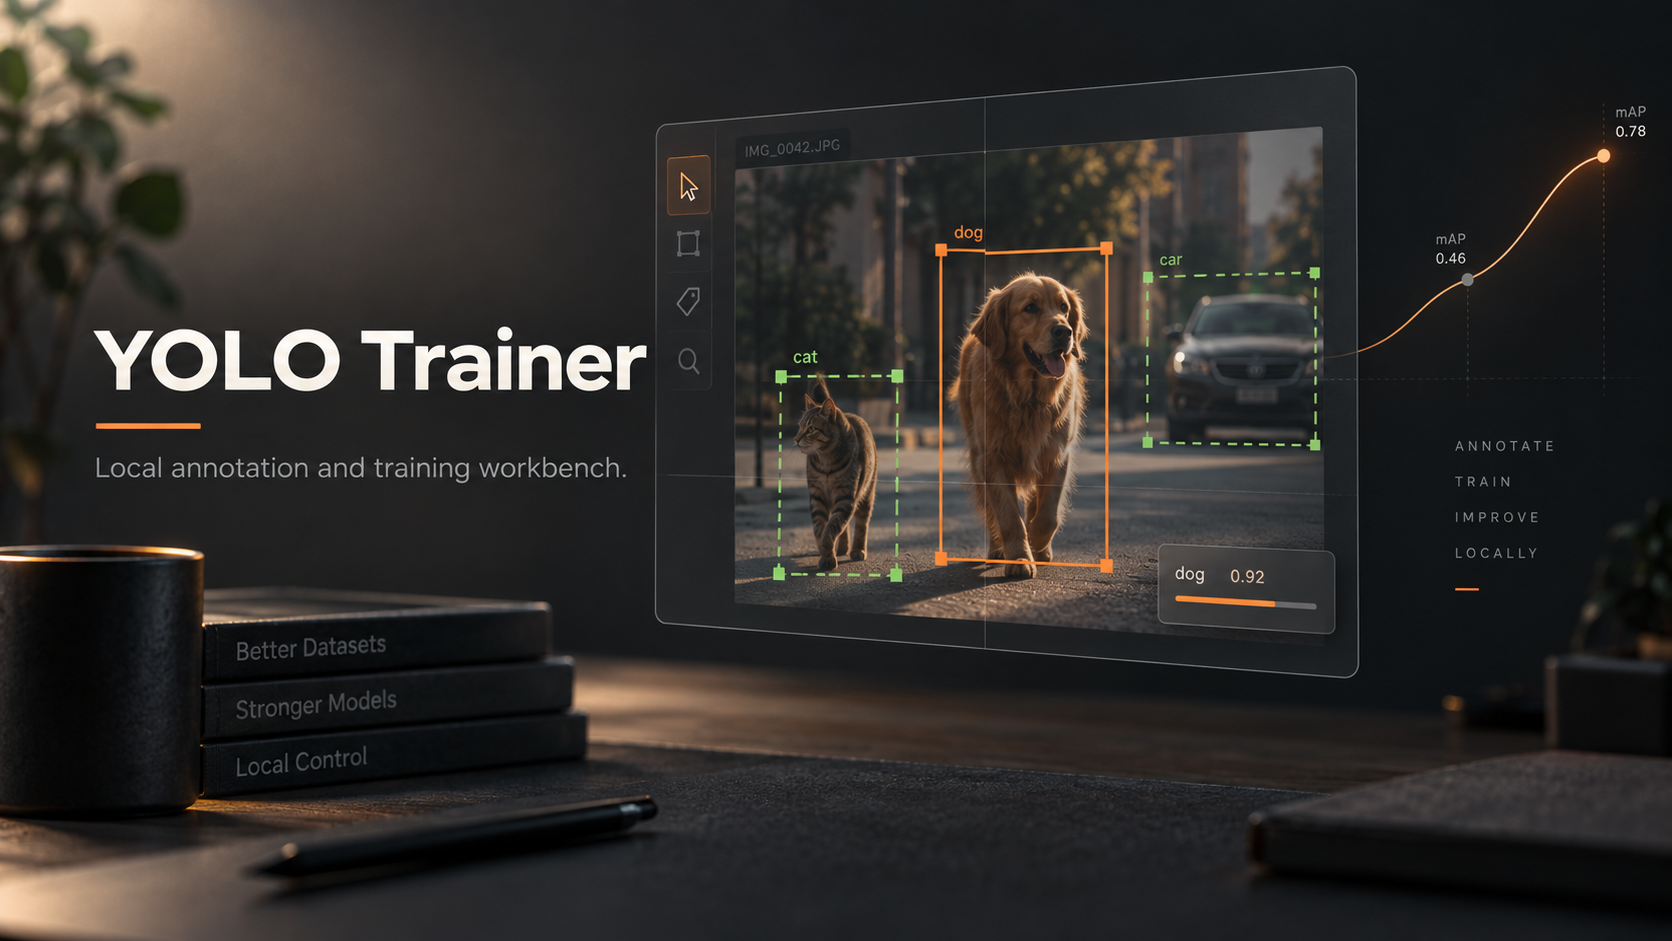
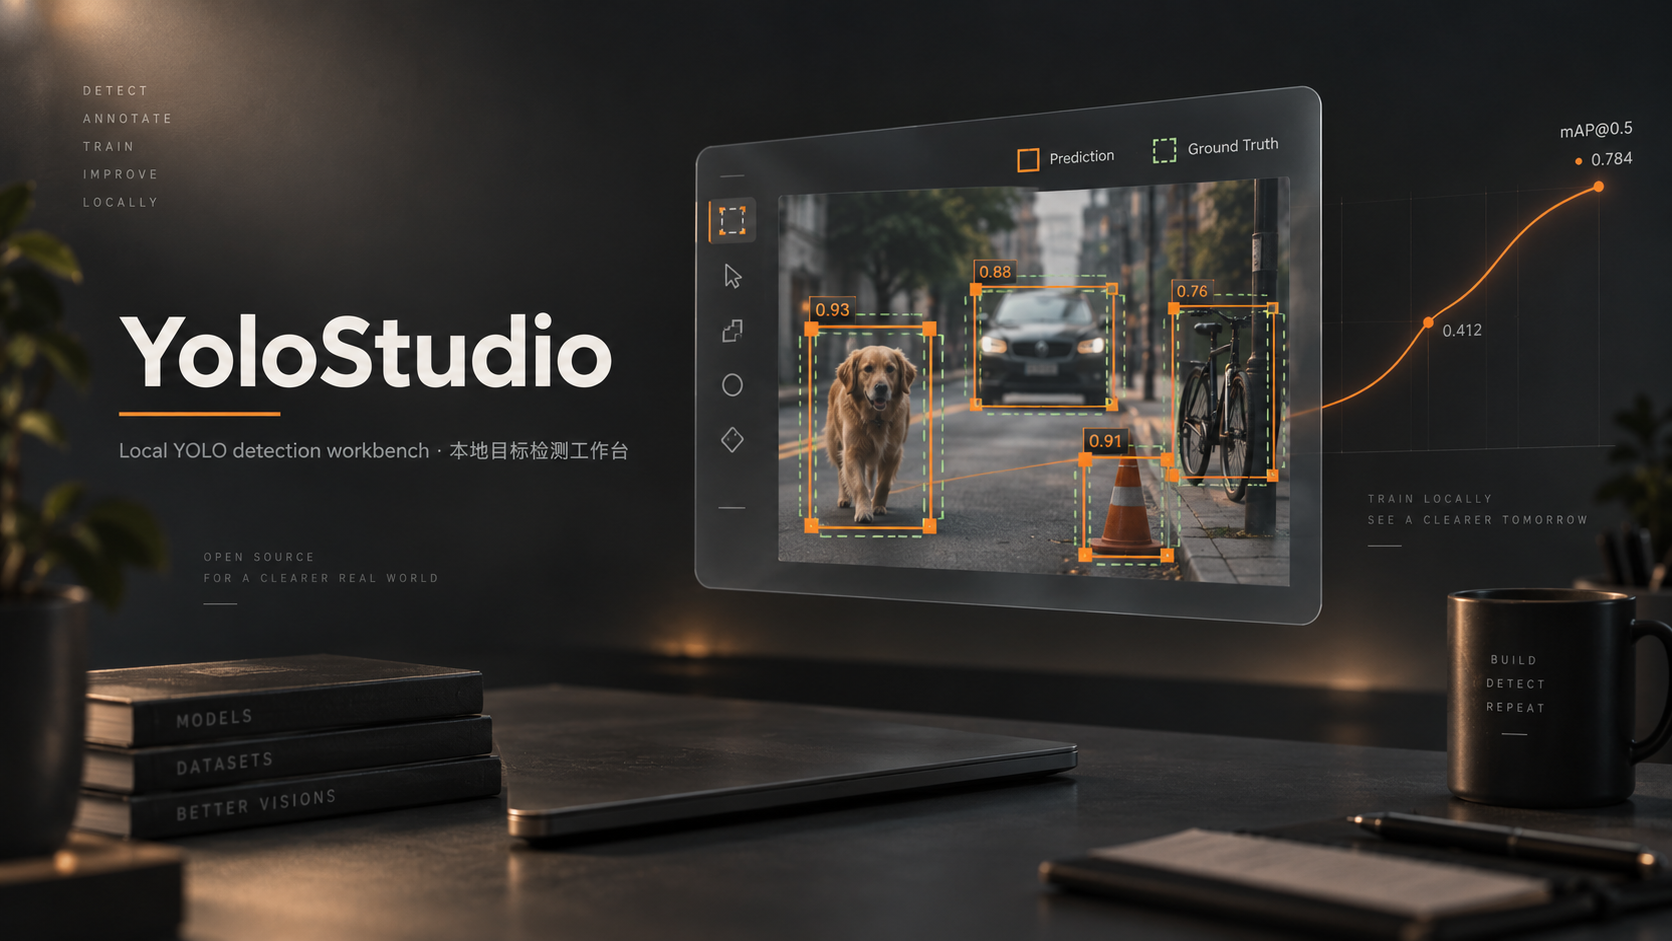
chore: rebrand the product as YoloStudio
Rename the public project identity and packaging to a cleaner studio mark, and refresh the README banner and bilingual framing.

diff --git a/frontend/src/App.test.tsx b/frontend/src/App.test.tsx
@@ -998,7 +998,7 @@ const apiMock = vi.hoisted(() => {
 vi.mock("./api", () => ({
   getHealth: async () => ({
     status: "ok",
-    app: "YOLO Trainer",
+    app: "YoloStudio",
     workspace_root: "/tmp/workspace",
     database_path: "/tmp/workspace/app.db",
     devices: { selected: "cpu", available: ["cpu"], details: {} },
@@ -1314,7 +1314,7 @@ describe("App", () => {
     const user = userEvent.setup();
     render(<App />);
 
-    expect(await screen.findByText("YOLO Trainer")).toBeInTheDocument();
+    expect(await screen.findByText("YoloStudio")).toBeInTheDocument();
     expect(await screen.findByText("cpu")).toBeInTheDocument();
     expect(screen.getByTitle("/tmp/workspace")).toHaveTextContent("/tmp/workspace");
     expect(screen.getByTitle("/tmp/workspace/app.db")).toHaveTextContent(
@@ -1733,7 +1733,7 @@ describe("App", () => {
     const user = userEvent.setup();
     render(<App />);
 
-    expect(await screen.findByText("YOLO Trainer")).toBeInTheDocument();
+    expect(await screen.findByText("YoloStudio")).toBeInTheDocument();
     await navigateToStep(user, "图像标注");
     expect(screen.getByText("请先导入或加载数据集")).toBeInTheDocument();
     expect(screen.getByLabelText("数据集来源")).toBeInTheDocument();

diff --git a/frontend/src/App.tsx b/frontend/src/App.tsx
@@ -151,7 +151,7 @@ function resolveDefaultDatasetPath(): string {
   if (typeof window !== "undefined") {
     const host = window.location.hostname;
     if (host && host !== "localhost" && host !== "127.0.0.1") {
-      return "/opt/YOLO_Trainer/image_dataset.zip";
+      return "/opt/YoloStudio/image_dataset.zip";
     }
   }
   return "/tmp/image_dataset.zip";
@@ -2813,7 +2813,7 @@ export default function App() {
       <section className="topbar" aria-label="应用状态">
         <div>
           <p className="eyebrow">本地目标检测工作台</p>
-          <h1>YOLO Trainer</h1>
+          <h1>YoloStudio</h1>
         </div>
         <div className="topbar-actions">
           <div className="device-pill">

diff --git a/frontend/src/LoginView.tsx b/frontend/src/LoginView.tsx
@@ -27,7 +27,7 @@ export function LoginView() {
       <section className="login-card" aria-label="用户登录">
         <div className="panel-heading">
           <div>
-            <p className="eyebrow">YOLO Trainer</p>
+            <p className="eyebrow">YoloStudio</p>
             <h1>登录工作台</h1>
             <p className="muted">使用管理员或标注员账号进入系统</p>
           </div>

diff --git a/frontend/src/api.ts b/frontend/src/api.ts
@@ -1008,7 +1008,7 @@ export function deleteDatasetSource(sourceId: number): Promise<void> {
 
 export function importDataset(
   sourcePath: string,
-  projectName = "YOLO Trainer Project",
+  projectName = "YoloStudio Project",
   datasetName = "image_dataset",
 ): Promise<DatasetImportResponse> {
   return requestJson<DatasetImportResponse>("/api/datasets/import", {

diff --git a/frontend/index.html b/frontend/index.html
@@ -3,7 +3,7 @@
   <head>
     <meta charset="UTF-8" />
     <meta name="viewport" content="width=device-width, initial-scale=1.0" />
-    <title>YOLO Trainer</title>
+    <title>YoloStudio</title>
   </head>
   <body>
     <div id="root"></div>

diff --git a/frontend/src/auth.tsx b/frontend/src/auth.tsx
@@ -15,7 +15,7 @@ import {
   type UserRole,
 } from "./api";
 
-const TOKEN_KEY = "yolo_trainer_access_token";
+const TOKEN_KEY = "yolostudio_access_token";
 
 type AuthContextValue = {
   user: AuthUser | null;

diff --git a/backend/app/core/settings.py b/backend/app/core/settings.py
@@ -9,10 +9,10 @@ REPO_ROOT = Path(__file__).resolve().parents[3]
 
 
 class Settings(BaseSettings):
-    model_config = SettingsConfigDict(env_prefix="YOLO_TRAINER_", arbitrary_types_allowed=True)
+    model_config = SettingsConfigDict(env_prefix="YOLOSTUDIO_", arbitrary_types_allowed=True)
 
     workspace_root: Path = Field(default=REPO_ROOT / "workspace")
-    jwt_secret: str = Field(default="yolo-trainer-dev-secret-change-me")
+    jwt_secret: str = Field(default="yolostudio-dev-secret-change-me")
     jwt_algorithm: str = Field(default="HS256")
     access_token_expire_minutes: int = Field(default=60 * 24 * 7)
     default_admin_username: str = Field(default="admin")

diff --git a/backend/app/main.py b/backend/app/main.py
@@ -62,7 +62,7 @@ async def lifespan(application: FastAPI) -> AsyncIterator[None]:
     yield
 
 
-app = FastAPI(title="YOLO Trainer API", lifespan=lifespan)
+app = FastAPI(title="YoloStudio API", lifespan=lifespan)
 
 app.add_middleware(
     CORSMiddleware,
@@ -100,7 +100,7 @@ def health() -> dict:
     device_info = detect_devices()
     return {
         "status": "ok",
-        "app": "YOLO Trainer",
+        "app": "YoloStudio",
         "workspace_root": str(settings.workspace_root),
         "database_path": str(settings.database_path),
         "devices": {

diff --git a/backend/app/training/weights.py b/backend/app/training/weights.py
@@ -44,8 +44,8 @@ def _bundled_pretrained_dir() -> Path:
 def _bundled_model_path(ultralytics_name: str) -> Path | None:
     candidates = [
         _bundled_pretrained_dir() / ultralytics_name,
-        Path("/opt/YOLO_Trainer/backend") / ultralytics_name,
-        Path("/opt/YOLO_Trainer/pretrained") / ultralytics_name,
+        Path("/opt/YoloStudio/backend") / ultralytics_name,
+        Path("/opt/YoloStudio/pretrained") / ultralytics_name,
     ]
     for path in candidates:
         if path.is_file():

diff --git a/backend/tests/test_health.py b/backend/tests/test_health.py
@@ -11,7 +11,7 @@ def test_health_endpoint_reports_local_app_state():
     assert response.status_code == 200
     payload = response.json()
     assert payload["status"] == "ok"
-    assert payload["app"] == "YOLO Trainer"
+    assert payload["app"] == "YoloStudio"
     assert payload["workspace_root"]
     assert payload["database_path"].endswith("app.db")
     assert payload["devices"]["selected"] in {"cuda", "mps", "cpu"}

diff --git a/backend/app/datasets/sources.py b/backend/app/datasets/sources.py
@@ -31,7 +31,7 @@ def _validate_zip_filename(filename: str) -> str:
 def _known_server_zips() -> list[Path]:
     candidates = [
         REPO_ROOT / "image_dataset.zip",
-        Path("/opt/YOLO_Trainer/image_dataset.zip"),
+        Path("/opt/YoloStudio/image_dataset.zip"),
     ]
     seen: set[Path] = set()
     result: list[Path] = []

diff --git a/backend/app/__init__.py b/backend/app/__init__.py
@@ -1,1 +1,1 @@
-"""YOLO Trainer backend package."""
+"""YoloStudio backend package."""
